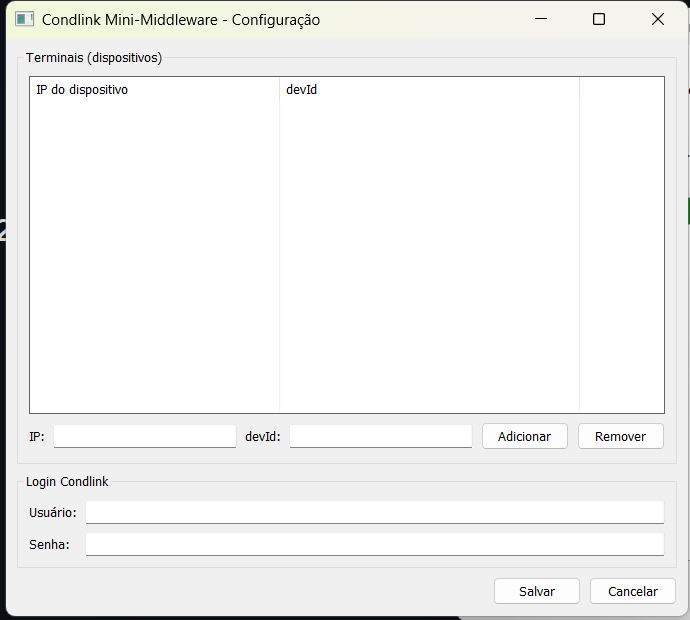
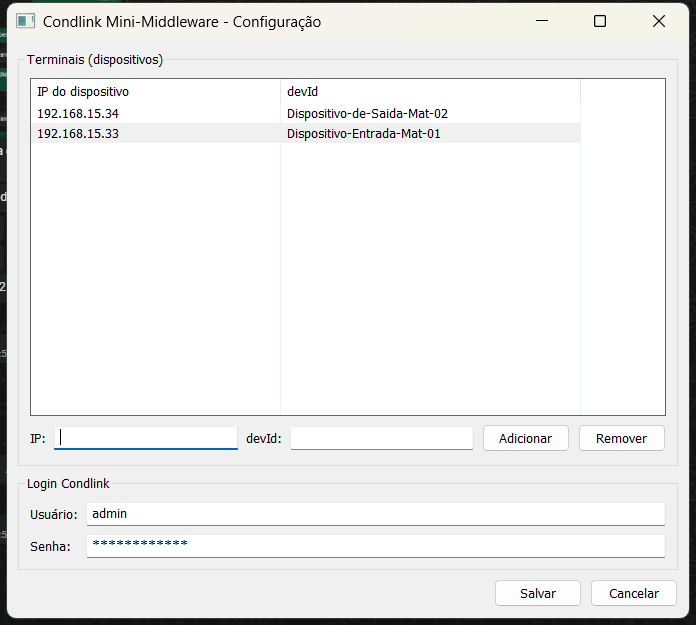
Usa screenshot da configuração com dados de exemplo no README

diff --git a/README.md b/README.md
@@ -56,7 +56,9 @@ automaticamente no Condlink — sem abrir portas no roteador nem configurar IP f
 
 ### 3. Preencher a tela de configuração
 
-![Tela de configuração do Mini-Middleware](docs/tela-configuracao.png)
+![Tela de configuração do Mini-Middleware com dados de exemplo](docs/tela-configuracao.png)
+
+> *Exemplo:* dois terminais cadastrados (IP + devId) e o login do Condlink preenchido.
 
 - **Terminais:** digite o **IP** do dispositivo e o **devId**, clique em **Adicionar**
   (repita para cada dispositivo). Para tirar um da lista, selecione-o e clique em
